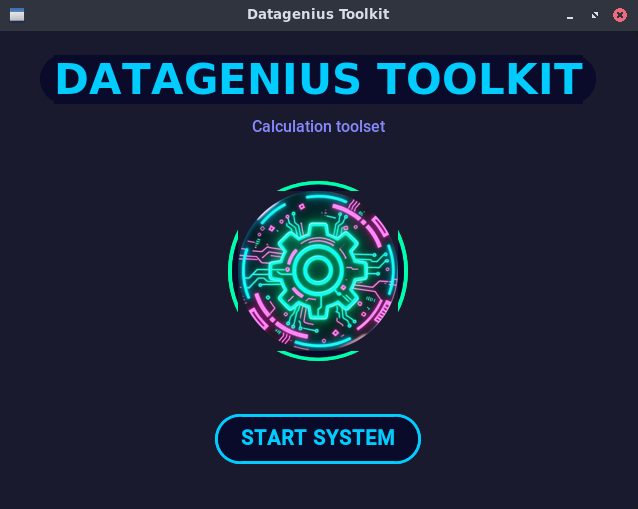
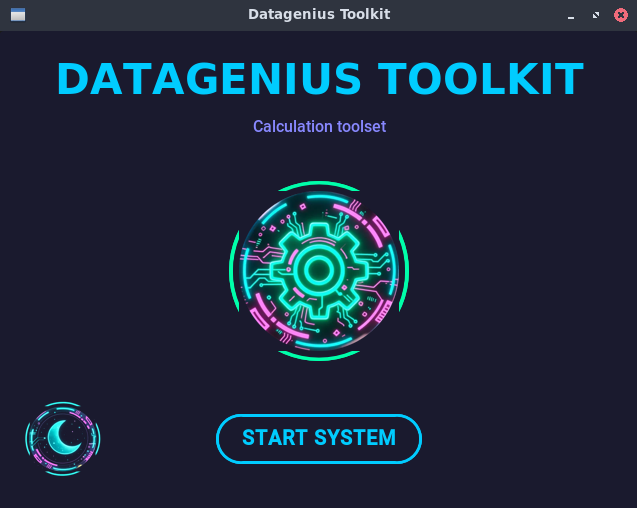
Update program images and features

diff --git a/README.md b/README.md
@@ -18,6 +18,7 @@
 - **Button to copy results** to clipboard
 - **Robust error handling** and input validation
 - **Modular** and well-documented code
+- **Dark/light** mode
 
 ## Calculators Included
 | # | Calculator | Description | Icon |
@@ -37,8 +38,8 @@
 <div align="center">
   <img src="docs/screenshots/main_screenshot.png" width="45%" alt="Main interface"><p>Main Interface</p>
   <img src="docs/screenshots/screenshot_menu.png" width="45%" alt="Menu Interface"><p>Menu Interface</p>
-  <img src="docs/screenshots/screenshot_calculator.png" width="45%" alt="Example calculator results interface"><p>Example Calculator Results Interface</p>
   <img src="docs/screenshots/screenshot_tooltip.png" width="45%" alt="Tootil"><p>Tooltip (Menu Interface)</p>
+  <img src="docs/screenshots/screenshot_calculator.png" width="45%" alt="Example calculator results interface"><p>Example Calculator Results Interface</p>
   <img src="docs/screenshots/screenshot_error.png" width="45%" alt="Error message"><p>Error Message (In each calculator interface)</p>
   <br>
 </div>
